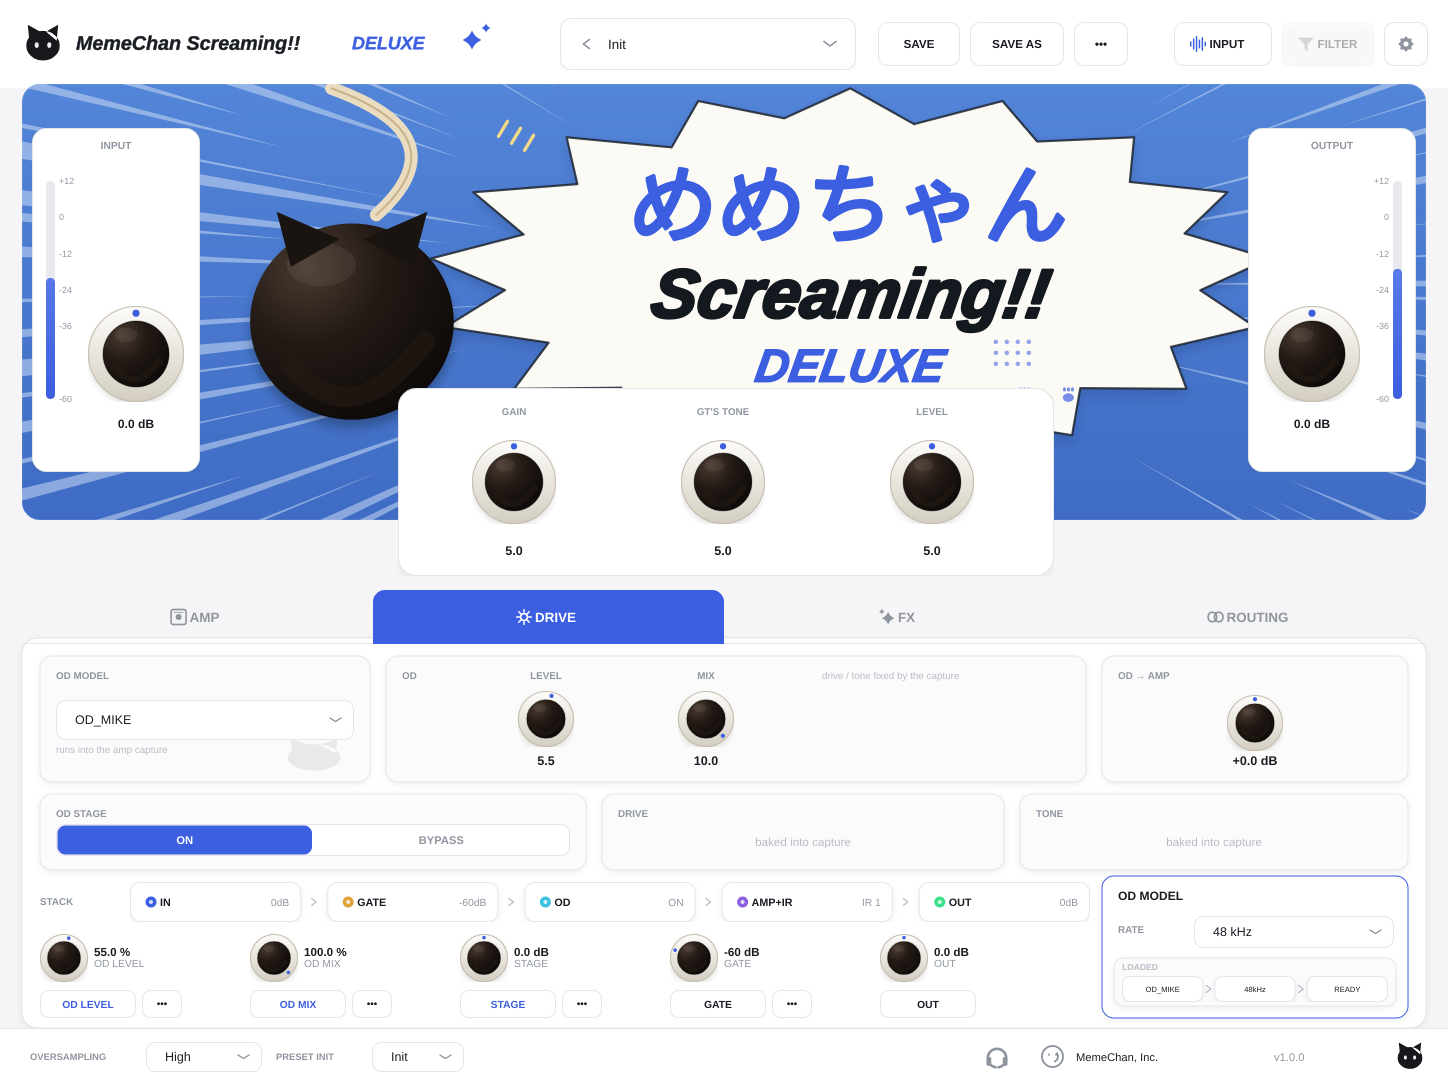
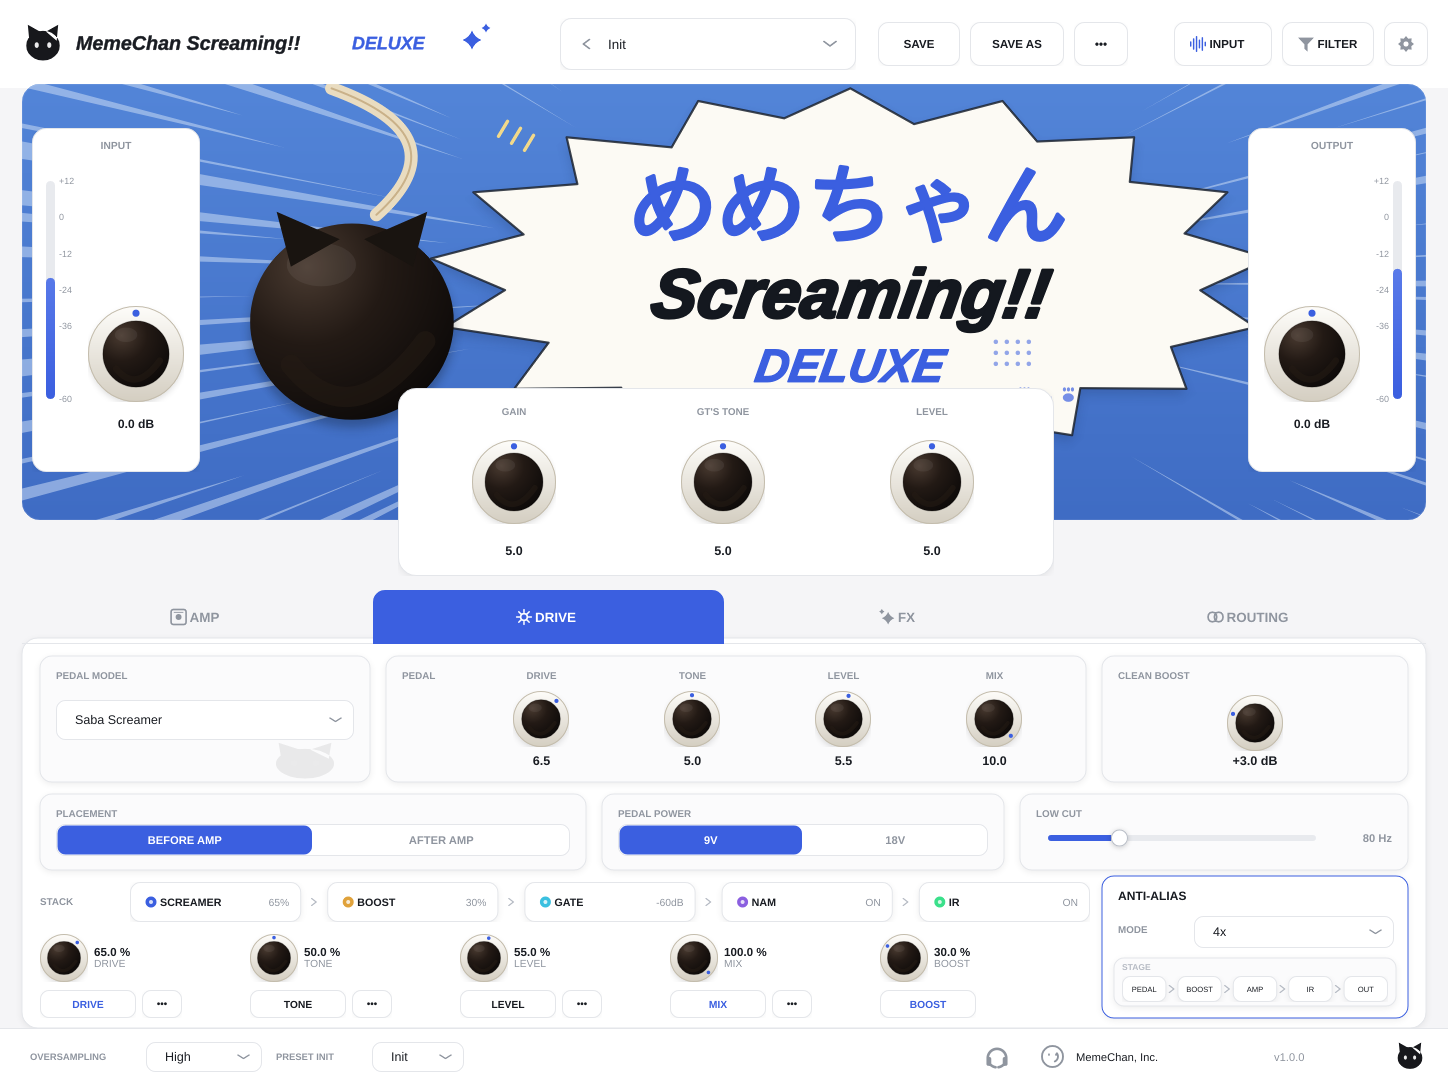
Revert "MemeChanUI: Rework the chain for two NAM models with the cab baked in"
This reverts commit c95a901c164b61d0598c71023cbf582762ca72ab.

diff --git a/MemeChanUI/Source/Pages.cpp b/MemeChanUI/Source/Pages.cpp
@@ -73,9 +73,8 @@ void PagePanel::addKnobRow (juce::Rectangle<int> card, juce::String title,
 {
     addCard (card, title);
 
-    // columns keep a sane width when a card holds fewer than four knobs
     auto area = card.reduced (16, 0).withTrimmedLeft (64);
-    const auto colW = juce::jmin (160, area.getWidth() / juce::jmax (1, names.size()));
+    const auto colW = area.getWidth() / juce::jmax (1, names.size());
 
     for (int i = 0; i < names.size(); ++i)
         own (std::make_unique<LabelledKnob> (names[i], juce::Range<double> (0.0, 10.0),
@@ -129,20 +128,6 @@ void PagePanel::addWaveButton (juce::Rectangle<int> card, juce::String title,
 
     own (std::make_unique<FlatButton> (buttonText, FlatButton::Style::outlined),
          { card.getX() + 360, card.getY() + 26, 170, 36 });
-}
-
-void PagePanel::addBlankCard (juce::Rectangle<int> card, juce::String title, juce::String note)
-{
-    addCard (card, title);
-
-    texts.push_back ({ card.withTrimmedTop (20), note, 13.0f, false, colours::textTertiary,
-                       juce::Justification::centred });
-}
-
-void PagePanel::addNote (juce::Rectangle<int> area, juce::String text, float size)
-{
-    texts.push_back ({ area, text, size, false, colours::textTertiary,
-                       juce::Justification::centredLeft });
 }
 
 //==============================================================================
@@ -227,32 +212,23 @@ void PagePanel::paint (juce::Graphics& g)
 }
 
 //==============================================================================
-/*  The six amp captures share one amp and differ only in the cabinet baked
-    into them, so the selector is a cab list, not an amp list. Names are
-    placeholders until the real .nam filenames are known. */
-static juce::StringArray cabCaptures()
-{
-    return { "JK Clean - IR 1", "JK Clean - IR 2", "JK Clean - IR 3",
-             "JK Clean - IR 4", "JK Clean - IR 5", "JK Clean - IR 6" };
-}
-
 std::unique_ptr<PagePanel> createAmpPage()
 {
     auto p = std::make_unique<PagePanel>();
 
-    // amp is fixed; the six captures differ only in the cab baked into them
-    p->addCombo (PagePanel::row1 (0), "CAB (BAKED IR)", cabCaptures(), 0);
-    p->addNote  ({ 34, 104, 300, 16 }, "amp: JK Clean - capture includes cab");
-    p->addCatWatermark ({ 262, 100, 60, 34 });
+    p->addCombo (PagePanel::row1 (0), "AMP MODEL",
+                 { "Saba Drive", "Katsuo Clean", "Maguro Lead", "Niboshi Crunch" }, 0);
+    p->addCatWatermark ({ 250, 104, 66, 38 });
 
-    p->addBlankCard (PagePanel::row1 (1), "EQ", "parked");
+    p->addKnobRow (PagePanel::row1 (1), "EQ",
+                   { "BASS", "MIDDLE", "TREBLE", "PRESENCE" }, { 5.0, 5.0, 5.0, 5.0 });
 
     p->addBigKnob (PagePanel::row1 (2), "NOISE GATE", -60.0, { -80.0, 0.0 },
                    [] (double v) { return juce::String (v, 1) + " dB"; });
 
     p->addWaveButton (PagePanel::row2 (0), "INPUT CALIBRATION", "CALIBRATE");
-    p->addBlankCard  (PagePanel::row2 (1), "PICKUP", "parked");
-    p->addBlankCard  (PagePanel::row2 (2), "BASS CUT", "filter off");
+    p->addSegmented  (PagePanel::row2 (1), "PICKUP", { "SINGLE COIL", "HUMBUCKER" }, 0);
+    p->addSlider     (PagePanel::row2 (2), "BASS CUT", 0.0, 200.0, "OFF");
 
     p->addFxSection ("FX CHAIN",
                      { { "ROOM",     "45%", fxDots[0] },
@@ -266,8 +242,8 @@ std::unique_ptr<PagePanel> createAmpPage()
                        { "HALL",     "78.8 %", 0.788, true  },
                        { "DRY PAN",  "C",      0.50,  false } });
 
-    p->addSideBox ("NAM CHAIN", "RATE", { "48 kHz", "44.1 kHz" }, 0, "STAGES",
-                   { "IN", "GATE", "OD", "AMP+IR", "OUT" });
+    p->addSideBox ("ROUTING", "ROUTE", { "Series", "Parallel" }, 0, "FX CHAIN",
+                   { "ROOM", "HALL", "DELAY", "MONO DLY", "DRY PAN" });
     return p;
 }
 
@@ -275,36 +251,34 @@ std::unique_ptr<PagePanel> createDrivePage()
 {
     auto p = std::make_unique<PagePanel>();
 
-    p->addCombo (PagePanel::row1 (0), "OD MODEL", { "OD_MIKE" }, 0);
-    p->addNote  ({ 34, 104, 300, 16 }, "runs into the amp capture");
-    p->addCatWatermark ({ 262, 100, 60, 34 });
+    p->addCombo (PagePanel::row1 (0), "PEDAL MODEL",
+                 { "Saba Screamer", "Katsuo Fuzz", "Niboshi Boost", "Maguro OD" }, 0);
+    p->addCatWatermark ({ 250, 104, 66, 38 });
 
-    // DRIVE and TONE are baked into the capture, so only the levels are live
-    p->addKnobRow (PagePanel::row1 (1), "OD", { "LEVEL", "MIX" }, { 5.5, 10.0 });
-    p->addNote    ({ 800, 30, 250, 16 }, "drive / tone fixed by the capture");
+    p->addKnobRow (PagePanel::row1 (1), "PEDAL",
+                   { "DRIVE", "TONE", "LEVEL", "MIX" }, { 6.5, 5.0, 5.5, 10.0 });
 
-    p->addBigKnob (PagePanel::row1 (2),
-                   juce::String::fromUTF8 ("OD \xe2\x86\x92 AMP"), 0.0, { -12.0, 12.0 },
-                   [] (double v) { return (v >= 0.0 ? "+" : "") + juce::String (v, 1) + " dB"; });
+    p->addBigKnob (PagePanel::row1 (2), "CLEAN BOOST", 3.0, { 0.0, 12.0 },
+                   [] (double v) { return "+" + juce::String (v, 1) + " dB"; });
 
-    p->addSegmented (PagePanel::row2 (0), "OD STAGE", { "ON", "BYPASS" }, 0);
-    p->addBlankCard (PagePanel::row2 (1), "DRIVE", "baked into capture");
-    p->addBlankCard (PagePanel::row2 (2), "TONE",  "baked into capture");
+    p->addSegmented (PagePanel::row2 (0), "PLACEMENT", { "BEFORE AMP", "AFTER AMP" }, 0);
+    p->addSegmented (PagePanel::row2 (1), "PEDAL POWER", { "9V", "18V" }, 0);
+    p->addSlider    (PagePanel::row2 (2), "LOW CUT", 80.0, 300.0, "80 Hz");
 
     p->addFxSection ("STACK",
-                     { { "IN",     "0dB",   fxDots[0] },
-                       { "GATE",   "-60dB", fxDots[1] },
-                       { "OD",     "ON",    fxDots[2] },
-                       { "AMP+IR", "IR 1",  fxDots[3] },
-                       { "OUT",    "0dB",   fxDots[4] } },
-                     { { "OD LEVEL", "55.0 %",  0.55, true  },
-                       { "OD MIX",   "100.0 %", 1.00, true  },
-                       { "STAGE",    "0.0 dB",  0.50, true  },
-                       { "GATE",     "-60 dB",  0.25, false },
-                       { "OUT",      "0.0 dB",  0.50, false } });
+                     { { "SCREAMER", "65%",   fxDots[0] },
+                       { "BOOST",    "30%",   fxDots[1] },
+                       { "GATE",     "-60dB", fxDots[2] },
+                       { "NAM",      "ON",    fxDots[3] },
+                       { "IR",       "ON",    fxDots[4] } },
+                     { { "DRIVE", "65.0 %",  0.65, true  },
+                       { "TONE",  "50.0 %",  0.50, false },
+                       { "LEVEL", "55.0 %",  0.55, false },
+                       { "MIX",   "100.0 %", 1.00, true  },
+                       { "BOOST", "30.0 %",  0.30, true  } });
 
-    p->addSideBox ("OD MODEL", "RATE", { "48 kHz", "44.1 kHz" }, 0, "LOADED",
-                   { "OD_MIKE", "48kHz", "READY" });
+    p->addSideBox ("ANTI-ALIAS", "MODE", { "2x", "4x", "8x" }, 1, "STAGE",
+                   { "PEDAL", "BOOST", "AMP", "IR", "OUT" });
     return p;
 }
 
@@ -347,34 +321,33 @@ std::unique_ptr<PagePanel> createRoutingPage()
 {
     auto p = std::make_unique<PagePanel>();
 
-    p->addCombo (PagePanel::row1 (0), "MODEL FOLDER", { "JK_clean" }, 0);
-    p->addNote  ({ 34, 104, 300, 16 }, "OD_MIKE + 6 cab captures");
-    p->addCatWatermark ({ 262, 100, 60, 34 });
+    p->addCombo (PagePanel::row1 (0), "ROUTE MODE",
+                 { "Series", "Parallel", "Split" }, 0);
+    p->addCatWatermark ({ 250, 104, 66, 38 });
 
-    p->addKnobRow (PagePanel::row1 (1), "LEVELS",
-                   { "IN", "OD", "AMP", "OUT" }, { 5.0, 5.5, 5.0, 5.0 });
+    p->addKnobRow (PagePanel::row1 (1), "BALANCE",
+                   { "A/B MIX", "WIDTH", "DRY", "WET" }, { 5.0, 5.0, 0.0, 10.0 });
 
     p->addBigKnob (PagePanel::row1 (2), "OUTPUT", 0.0, { -24.0, 24.0 },
                    [] (double v) { return juce::String (v, 1) + " dB"; });
 
-    p->addWaveButton (PagePanel::row2 (0), "CAPTURE SET", "RELOAD");
-    p->addSegmented  (PagePanel::row2 (1), "OD STAGE", { "ON", "BYPASS" }, 0);
-    // no separate convolution stage any more - the cab lives in the capture
-    p->addBlankCard  (PagePanel::row2 (2), "IR LOADER", "baked into capture");
+    p->addWaveButton (PagePanel::row2 (0), "IR FILE", "LOAD IR");
+    p->addSegmented  (PagePanel::row2 (1), "IR SLOT", { "A", "B" }, 0);
+    p->addSlider     (PagePanel::row2 (2), "IR LENGTH", 1024.0, 4096.0, "1024");
 
     p->addFxSection ("SIGNAL",
-                     { { "IN",     "0dB",   fxDots[0] },
-                       { "GATE",   "-60dB", fxDots[1] },
-                       { "OD",     "MIKE",  fxDots[2] },
-                       { "AMP+IR", "IR 1",  fxDots[3] },
-                       { "FX",     "79%",   fxDots[4] } },
-                     { { "IN",     "0.0 dB",  0.50, false },
-                       { "OD",     "ON",      0.55, true  },
-                       { "AMP+IR", "IR 1",    1.00, true  },
-                       { "FX",     "78.8 %",  0.788, false },
-                       { "OUT",    "0.0 dB",  0.50, false } });
+                     { { "PEDAL", "ON",     fxDots[0] },
+                       { "NAM",   "48kHz",  fxDots[1] },
+                       { "EQ",    "ON",     fxDots[2] },
+                       { "IR",    "A",      fxDots[3] },
+                       { "FX",    "79%",    fxDots[4] } },
+                     { { "PEDAL", "65.0 %",  0.65, true  },
+                       { "NAM",   "100.0 %", 1.00, true  },
+                       { "EQ",    "50.0 %",  0.50, false },
+                       { "IR",    "100.0 %", 1.00, true  },
+                       { "FX",    "78.8 %",  0.788, false } });
 
-    p->addSideBox ("NAM MODELS", "RATE", { "48 kHz", "44.1 kHz" }, 0, "CHAIN",
-                   { "OD_MIKE", "48kHz", "JK CLEAN", "IR 1", "READY" });
+    p->addSideBox ("NAM MODEL", "RATE", { "48 kHz", "44.1 kHz" }, 0, "STATUS",
+                   { "LOADED", "48kHz", "RESAMP", "IR A", "READY" });
     return p;
 }

diff --git a/MemeChanUI/Source/Widgets.cpp b/MemeChanUI/Source/Widgets.cpp
@@ -286,13 +286,6 @@ void FlatButton::paintButton (juce::Graphics& g, bool highlighted, bool)
         case Style::accentText: bg = colours::cardBg;    border = colours::cardBorder; fg = colours::accent;       break;
     }
 
-    if (! isEnabled())
-    {
-        bg     = bg.withMultipliedAlpha (0.45f);
-        border = border.withMultipliedAlpha (0.35f);
-        fg     = fg.withMultipliedAlpha (0.35f);
-    }
-
     const auto inked = currentSkin() == Skin::comic;
     b = b.reduced (inked ? strokeWidth() * 0.5f : 0.0f);
 
@@ -321,8 +314,7 @@ void FlatButton::paintButton (juce::Graphics& g, bool highlighted, bool)
         auto iconArea = hasText ? content.removeFromLeft (iconSize + 7.0f)
                                          .withSizeKeepingCentre (iconSize, iconSize)
                                 : b.withSizeKeepingCentre (iconSize, iconSize);
-        auto ic = style == Style::filled ? juce::Colours::white : iconColour;
-        g.setColour (isEnabled() ? ic : ic.withMultipliedAlpha (0.35f));
+        g.setColour (style == Style::filled ? juce::Colours::white : iconColour);
         g.fillPath (iconFn (iconArea));
     }
 

diff --git a/MemeChanUI/Source/Pages.h b/MemeChanUI/Source/Pages.h
@@ -33,15 +33,6 @@ public:
     void            addWaveButton(juce::Rectangle<int> card, juce::String title,
                                   juce::String buttonText);
 
-    /** Card with its controls deliberately left out, for a section that is
-        parked rather than removed. */
-    void            addBlankCard (juce::Rectangle<int> card, juce::String title,
-                                  juce::String note);
-
-    /** Free-standing caption, e.g. a note under a control. */
-    void            addNote      (juce::Rectangle<int> area, juce::String text,
-                                  float size = 11.0f);
-
     //== the shared lower half ================================================
     void addFxSection (juce::String caption, std::vector<FxChainStrip::Item> chain,
                        std::vector<FxCellSpec> cells);

diff --git a/MemeChanUI/Source/MemeChanEditor.cpp b/MemeChanUI/Source/MemeChanEditor.cpp
@@ -194,9 +194,6 @@ MemeChanEditor::MemeChanEditor()
     filterButton.setIconColour (colours::textSecondary);
     gearButton  .setIconColour (colours::textSecondary);
 
-    // parked for now, along with the EQ and pickup sections
-    filterButton.setEnabled (false);
-
     inputCard     = std::make_unique<IOCard> ("INPUT",  true);
     outputCard    = std::make_unique<IOCard> ("OUTPUT", false);
     heroKnobPanel = std::make_unique<HeroKnobPanel>();
